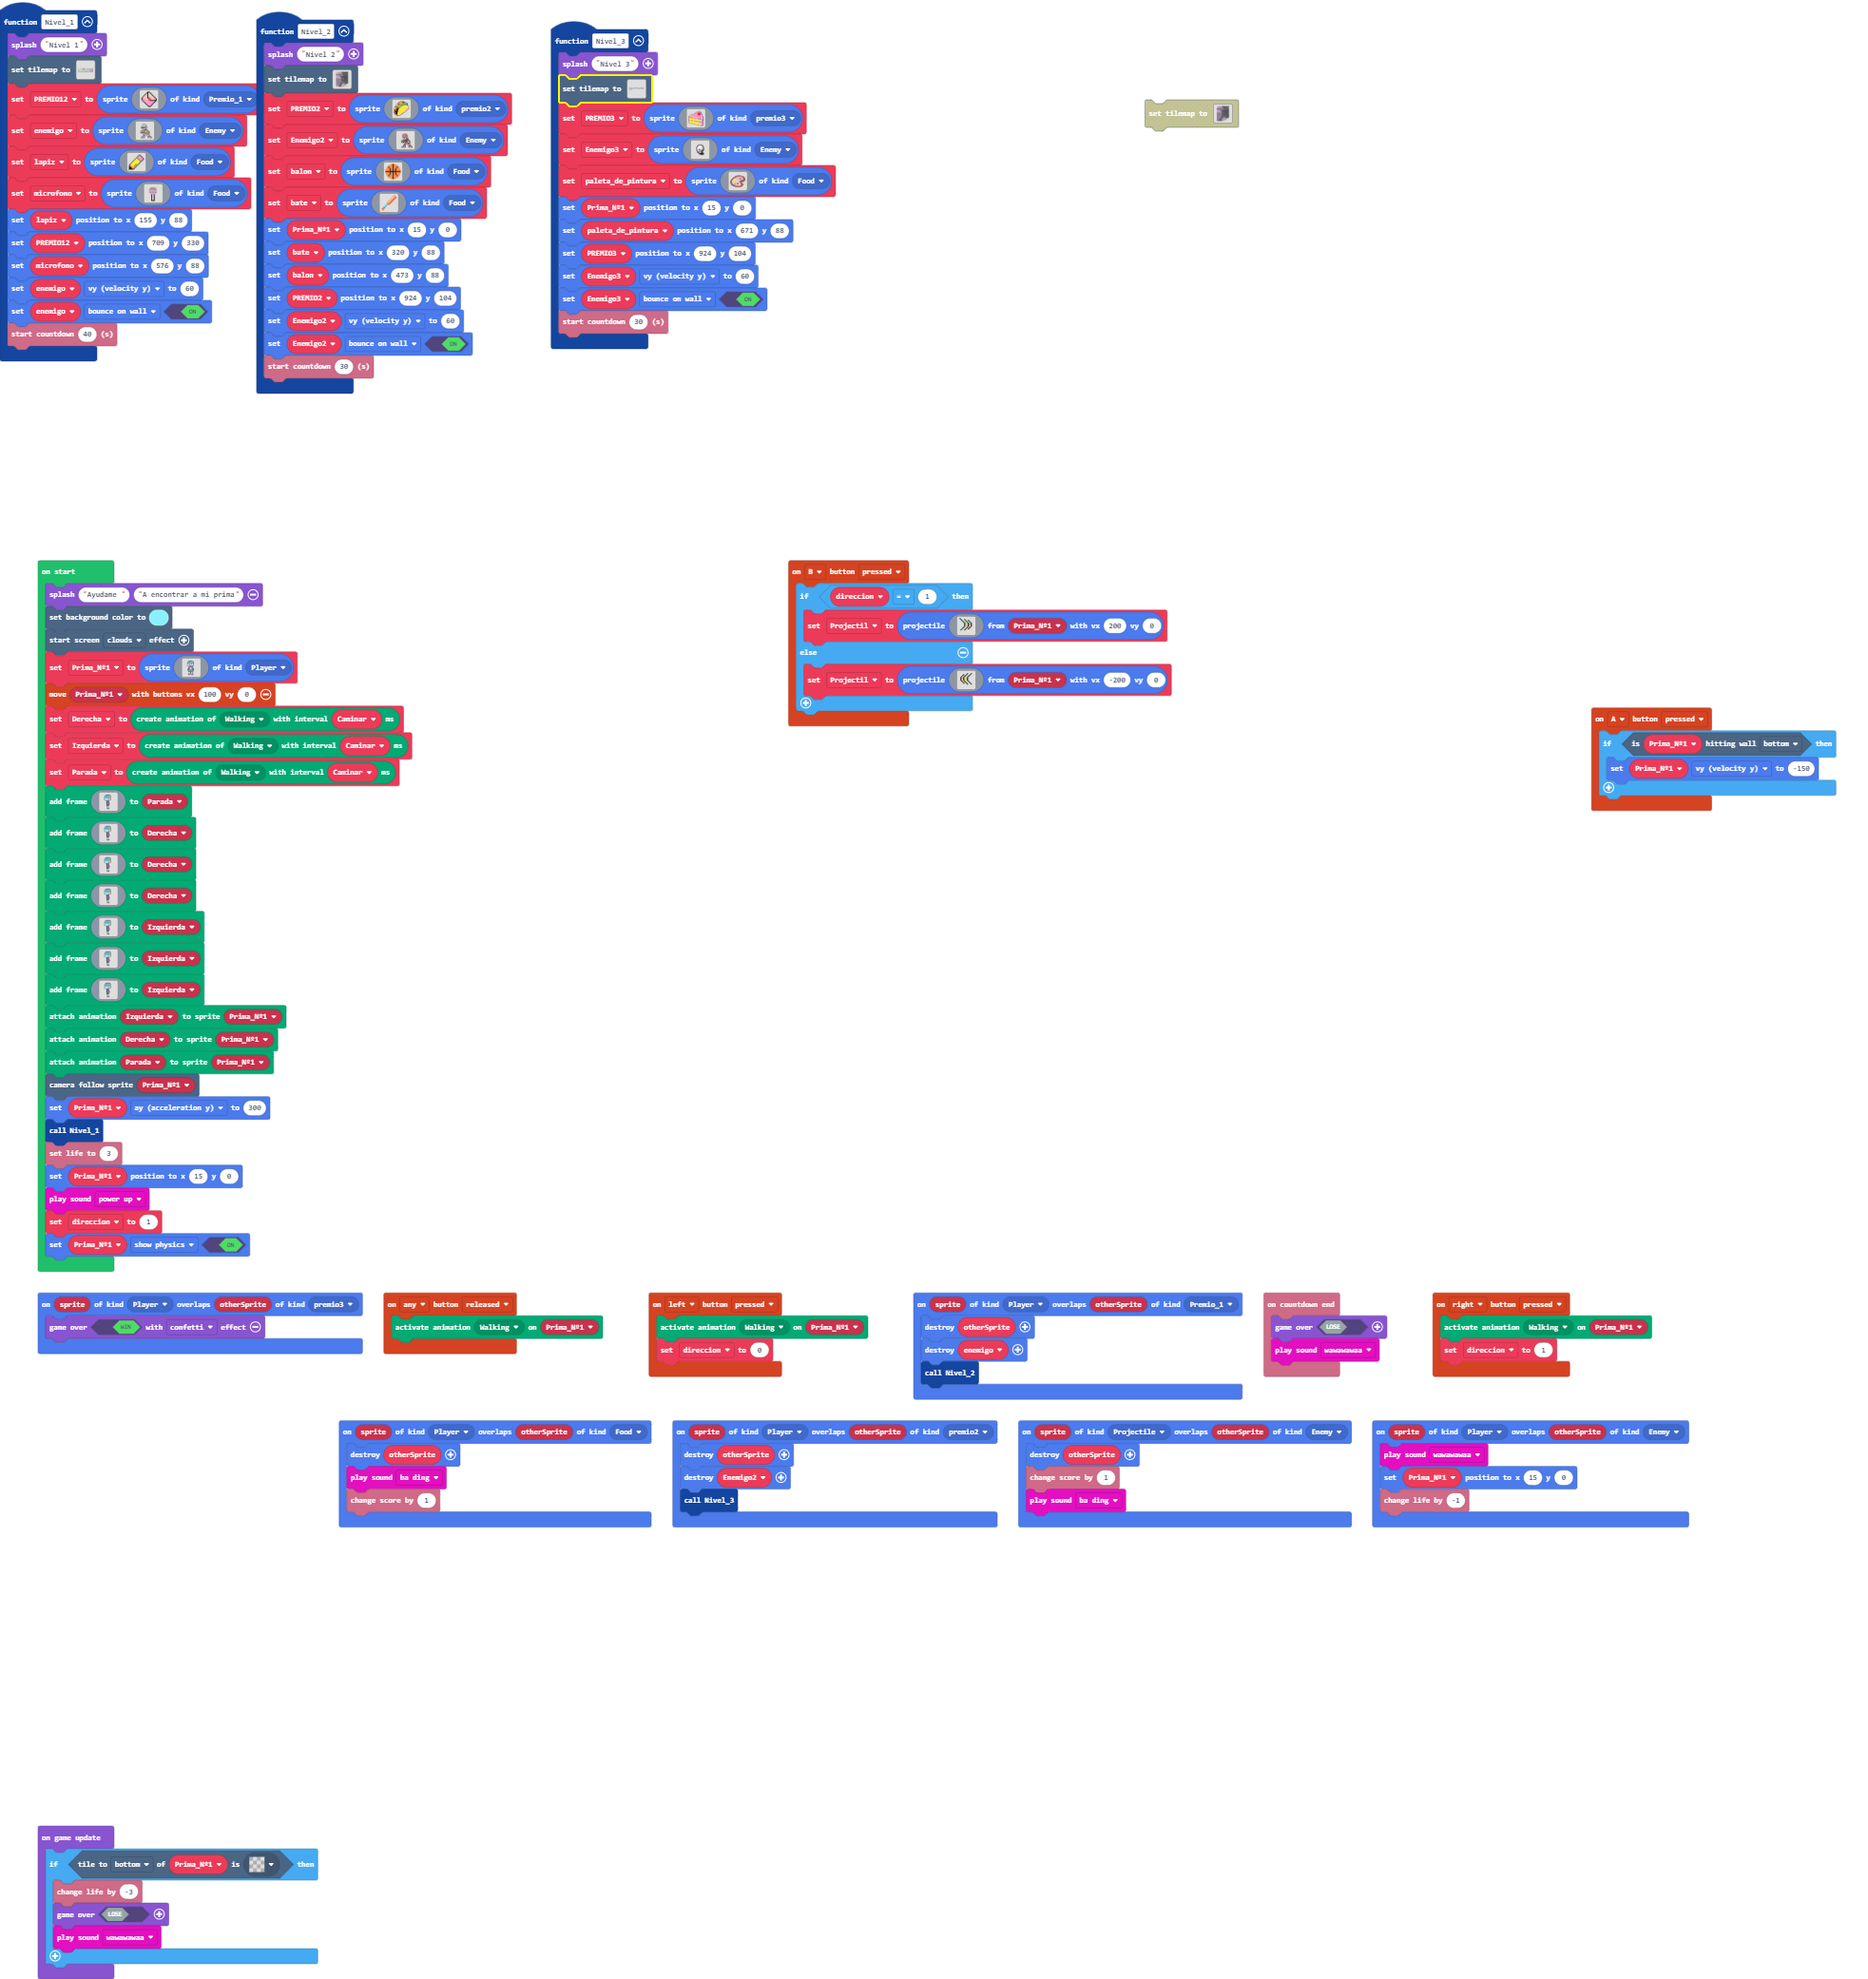
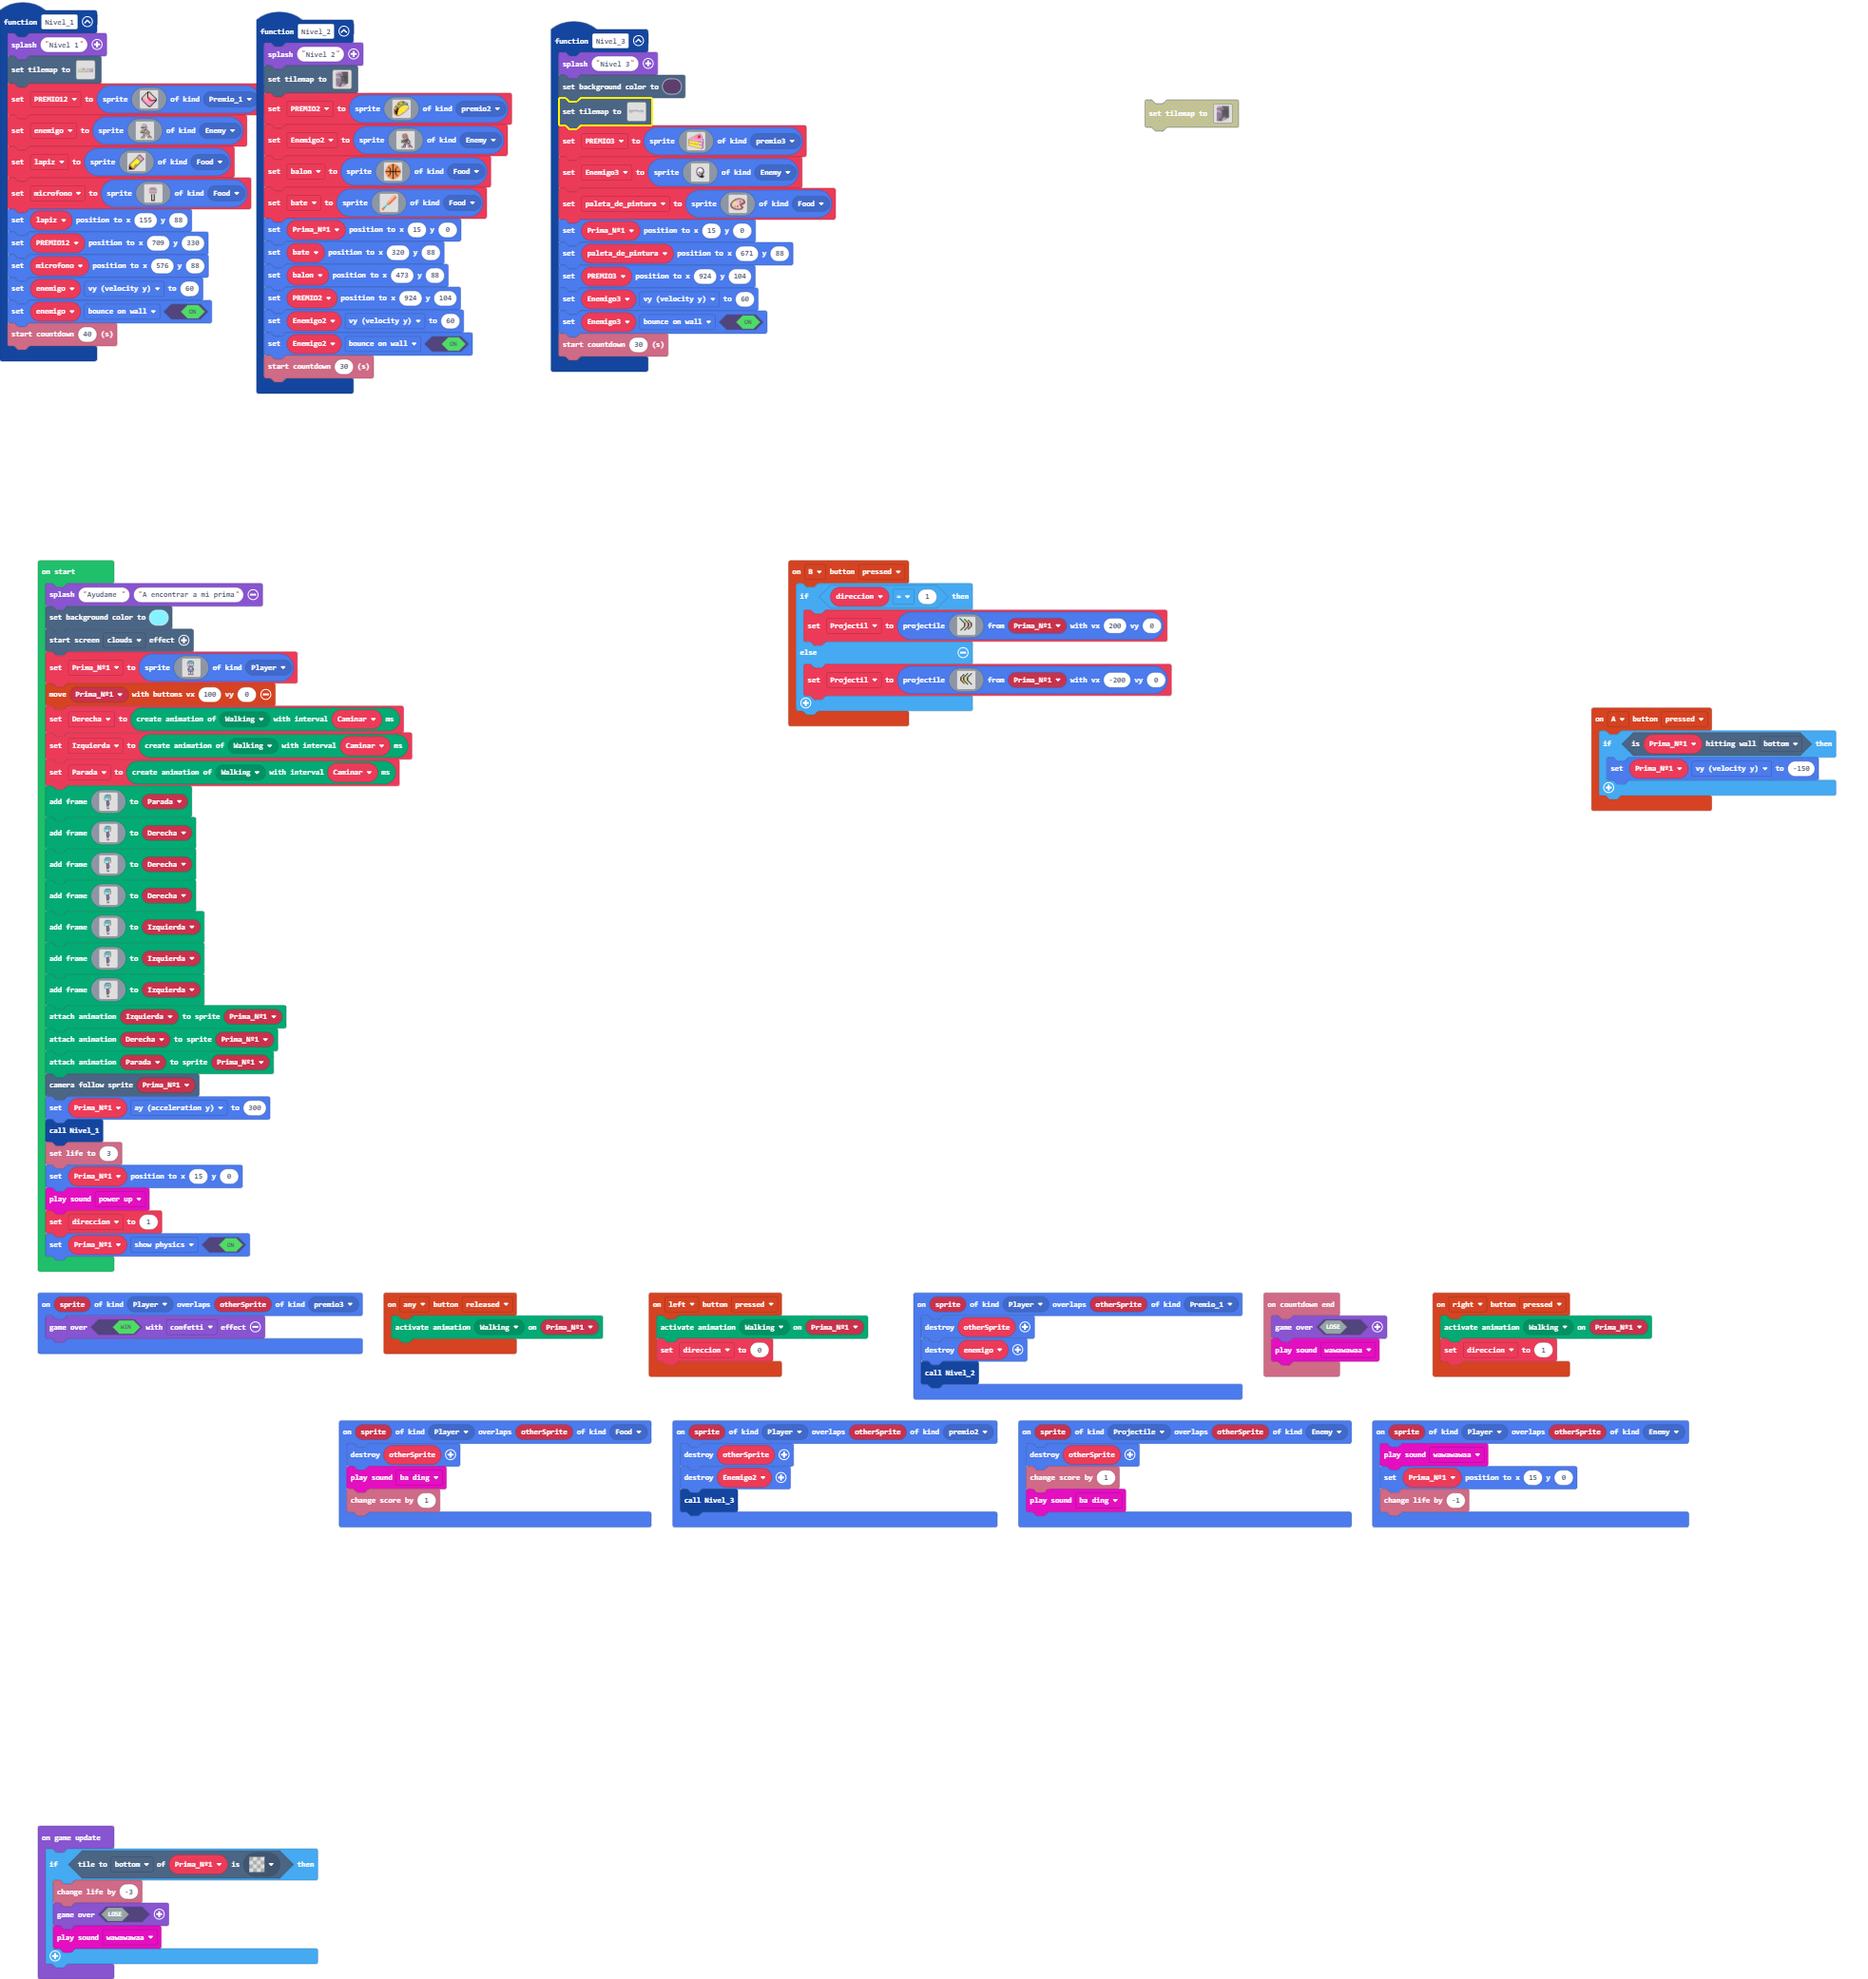
arboles montañas mapa 3

Changed region(s): [[0.2794, 0.0312, 0.4656, 0.1873]]

diff --git a/main.ts b/main.ts
@@ -18,7 +18,8 @@ namespace SpriteKind {
 }
 function Nivel_3 () {
     game.splash("Nivel 3")
[1 lines of base64/hex data omitted]
+    scene.setBackgroundColor(12)
[1 lines of base64/hex data omitted]
         2 2 2 2 2 2 2 2 2 2 2 2 2 2 2 2 2 2 2 2 2 2 2 2 2 2 2 2 2 2 2 2 2 2 2 2 2 2 2 2 2 2 2 2 2 2 2 2 2 2 2 2 2 2 2 2 2 2 2 2 2 2 2 2 2 2 2 2 2 2 2 2 2 2 2 2 2 2 2 2 2 2 2 2 2 2 2 2 2 2 
         2 2 2 2 . . . . . . . . . . . . . . . . . . . . . . . . . . . . . . . . . . . . . . . . . . . . . . . . . . . . . . . . . . . . . . . . . . . . . . . . . . . . . . . . . . . . . 2 
         2 2 2 2 2 . . . . . . . . . . . . . . . . . . . . . . . . . . . . . . . . . . . . . . . . . . . . . . . . . . . . . . . . . . . . . . . . . . . . . . . . . . . . . . . . . . . . 2 
@@ -39,7 +40,7 @@ function Nivel_3 () {
         2 2 2 . . . . . . . . . . . . . . . . . . . . . . . . . . . . . . . . . . . . . . . . . . . . . . . . . . . . . . . . . . . . . . . . . . . . . . . . . . . . . . . . . . . . . . 2 
         2 2 2 2 2 . . . . . . . . . . . . . . . . . . . . . . . . . . . . . . . . . . . . . . . . . . . . . . . . . . . . . . . . . . . . . . . . . . . . . . . . . . . . . . . . . . . . 2 
         2 2 2 2 2 2 2 2 2 2 2 2 2 2 2 2 2 2 2 2 2 2 2 2 2 2 2 2 2 2 2 2 2 2 2 2 2 2 2 2 2 2 2 2 2 2 2 2 2 2 2 2 2 2 2 2 2 2 2 2 2 2 2 2 2 2 2 2 2 2 2 2 2 2 2 2 2 2 2 2 2 2 2 2 2 2 2 2 2 2 
-        `, [myTiles.transparency16,myTiles.tile35,myTiles.tile37,myTiles.tile69,myTiles.tile71,myTiles.tile66,myTiles.tile67,myTiles.tile72,myTiles.tile20,myTiles.tile23,myTiles.tile26,myTiles.tile14,myTiles.tile36,myTiles.tile39,myTiles.tile41,myTiles.tile44,myTiles.tile50,myTiles.tile55,myTiles.tile75,myTiles.tile76,myTiles.tile77], TileScale.Sixteen))
+        `, [myTiles.transparency16,myTiles.tile35,myTiles.tile37,myTiles.tile69,myTiles.tile71,myTiles.tile67,myTiles.tile72,myTiles.tile20,myTiles.tile23,myTiles.tile26,myTiles.tile14,myTiles.tile36,myTiles.tile39,myTiles.tile41,myTiles.tile44,myTiles.tile50,myTiles.tile55,myTiles.tile75,myTiles.tile76,myTiles.tile77,sprites.castle.rock1,sprites.builtin.oceanDepths4,myTiles.tile80,myTiles.tile81,myTiles.tile82,myTiles.tile83,myTiles.tile84,myTiles.tile85,myTiles.tile86,myTiles.tile88,myTiles.tile89,myTiles.tile90,myTiles.tile91], TileScale.Sixteen))
     PREMIO3 = sprites.create(img`
         . . . . . . . . . . . . . . . . . . . . . . b b b . . . . . . . 
         . . . . . . . . . . . . . . . . . . . . b b 3 3 3 b . . . . . . 

diff --git a/tilemap.g.ts b/tilemap.g.ts
@@ -160,6 +160,30 @@ namespace myTiles {
     export const tile78 = image.ofBuffer(hex``);
     //% fixedInstance jres blockIdentity=images._tile
     export const tile79 = image.ofBuffer(hex``);
+    //% fixedInstance jres blockIdentity=images._tile
+    export const tile80 = image.ofBuffer(hex``);
+    //% fixedInstance jres blockIdentity=images._tile
+    export const tile81 = image.ofBuffer(hex``);
+    //% fixedInstance jres blockIdentity=images._tile
+    export const tile82 = image.ofBuffer(hex``);
+    //% fixedInstance jres blockIdentity=images._tile
+    export const tile83 = image.ofBuffer(hex``);
+    //% fixedInstance jres blockIdentity=images._tile
+    export const tile84 = image.ofBuffer(hex``);
+    //% fixedInstance jres blockIdentity=images._tile
+    export const tile85 = image.ofBuffer(hex``);
+    //% fixedInstance jres blockIdentity=images._tile
+    export const tile86 = image.ofBuffer(hex``);
+    //% fixedInstance jres blockIdentity=images._tile
+    export const tile87 = image.ofBuffer(hex``);
+    //% fixedInstance jres blockIdentity=images._tile
+    export const tile88 = image.ofBuffer(hex``);
+    //% fixedInstance jres blockIdentity=images._tile
+    export const tile89 = image.ofBuffer(hex``);
+    //% fixedInstance jres blockIdentity=images._tile
+    export const tile90 = image.ofBuffer(hex``);
+    //% fixedInstance jres blockIdentity=images._tile
+    export const tile91 = image.ofBuffer(hex``);
 
 }
 // Auto-generated code. Do not edit.
